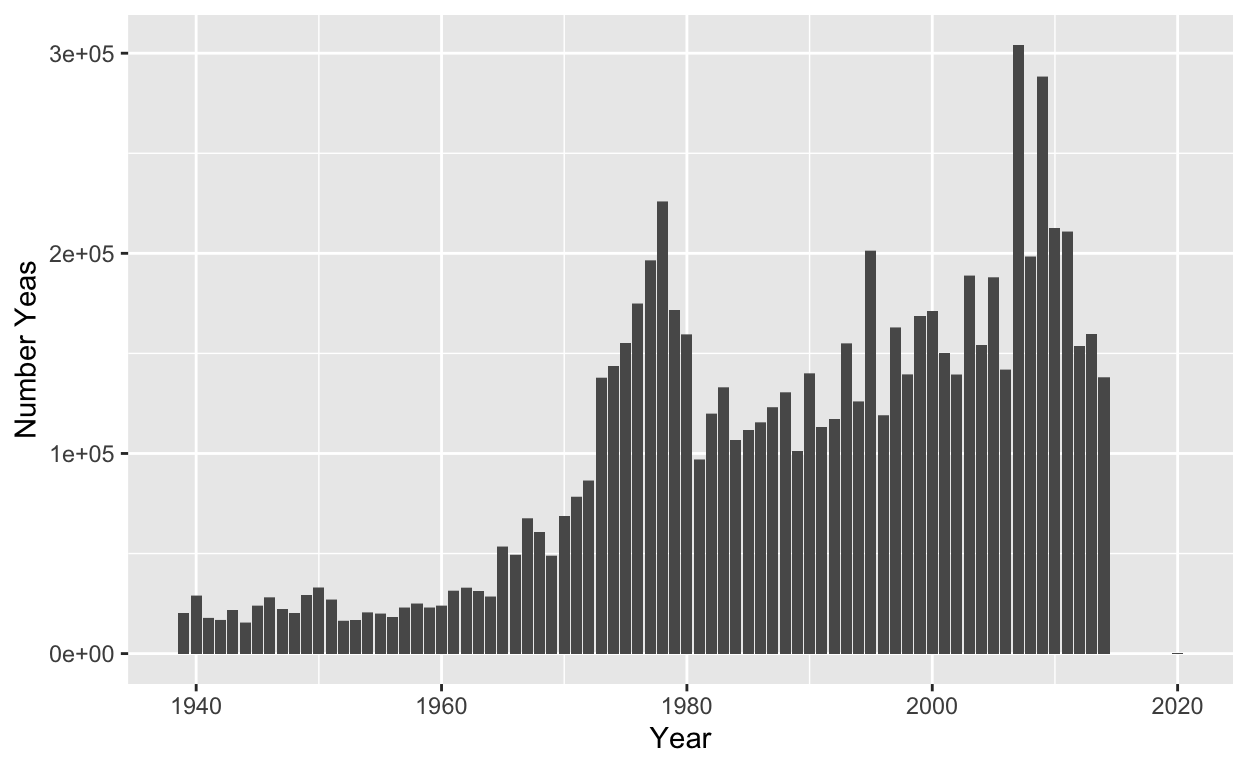
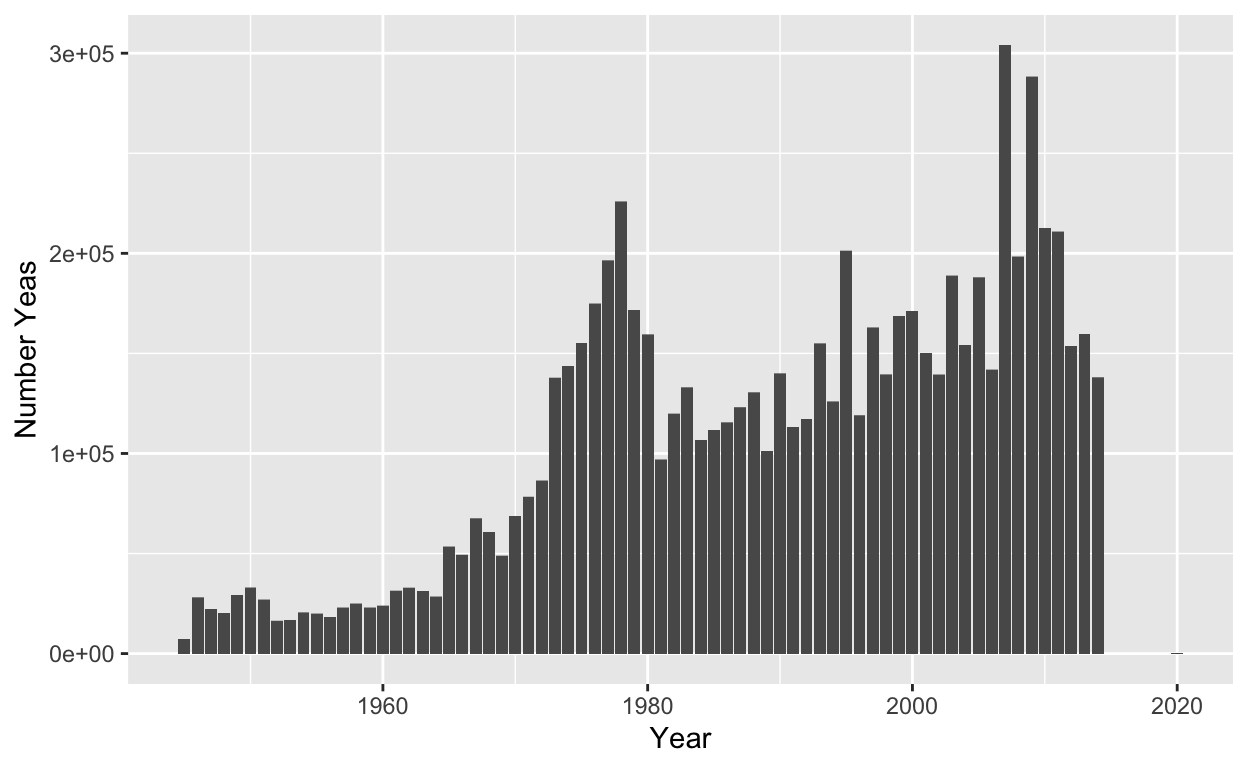
Milestone 4

diff --git a/index.html b/index.html
@@ -115,7 +115,7 @@ code span.wa { color: #5e5e5e; font-style: italic; } /* Warning */
   <!--/radix_placeholder_rmarkdown_metadata-->
   
   <script type="text/json" id="radix-resource-manifest">
-  {"type":"character","attributes":{},"value":["data/Party Voting Splits(main).csv","hdemrep35_113.xlsx","index_files/anchor-4.2.2/anchor.min.js","index_files/bowser-1.9.3/bowser.min.js","index_files/distill-2.2.21/template.v2.js","index_files/figure-html5/unnamed-chunk-3-1.png","index_files/figure-html5/unnamed-chunk-4-1.png","index_files/figure-html5/unnamed-chunk-5-1.png","index_files/header-attrs-2.17/header-attrs.js","index_files/header-attrs-2.24/header-attrs.js","index_files/jquery-3.6.0/jquery-3.6.0.js","index_files/jquery-3.6.0/jquery-3.6.0.min.js","index_files/jquery-3.6.0/jquery-3.6.0.min.map","index_files/popper-2.6.0/popper.min.js","index_files/tippy-6.2.7/tippy-bundle.umd.min.js","index_files/tippy-6.2.7/tippy-light-border.css","index_files/tippy-6.2.7/tippy.css","index_files/tippy-6.2.7/tippy.umd.min.js","index_files/webcomponents-2.0.0/webcomponents.js"]}
+  {"type":"character","attributes":{},"value":["data/Party Voting Splits(main).csv","hdemrep35_113.xlsx","index_files/anchor-4.2.2/anchor.min.js","index_files/bowser-1.9.3/bowser.min.js","index_files/distill-2.2.21/template.v2.js","index_files/figure-html5/unnamed-chunk-3-1.png","index_files/figure-html5/unnamed-chunk-4-1.png","index_files/figure-html5/unnamed-chunk-5-1.png","index_files/figure-html5/unnamed-chunk-6-1.png","index_files/header-attrs-2.17/header-attrs.js","index_files/header-attrs-2.24/header-attrs.js","index_files/jquery-3.6.0/jquery-3.6.0.js","index_files/jquery-3.6.0/jquery-3.6.0.min.js","index_files/jquery-3.6.0/jquery-3.6.0.min.map","index_files/popper-2.6.0/popper.min.js","index_files/tippy-6.2.7/tippy-bundle.umd.min.js","index_files/tippy-6.2.7/tippy-light-border.css","index_files/tippy-6.2.7/tippy.css","index_files/tippy-6.2.7/tippy.umd.min.js","index_files/webcomponents-2.0.0/webcomponents.js"]}
   </script>
   <!--radix_placeholder_navigation_in_header-->
   <!--/radix_placeholder_navigation_in_header-->
@@ -1520,6 +1520,7 @@ code span.wa { color: #5e5e5e; font-style: italic; } /* Warning */
 <h2 id="project-thoughts-milestone-1">Project Thoughts (Milestone 1)</h2>
 <h3 id="discription">Discription:</h3>
 <p>I am interested in exploring data related to congress voting patterns between Democrats and Republicans throughout the history of the United States to try and illustrate how we as a two-party nation have become more and more polarized as the years go on.</p>
+<hr />
 <h2 id="finding-data-and-proposal-milestone-2">Finding Data and Proposal (Milestone 2)</h2>
 <h3 id="data">Data:</h3>
 <div class="layout-chunk" data-layout="l-body">
@@ -1544,17 +1545,19 @@ code span.wa { color: #5e5e5e; font-style: italic; } /* Warning */
 <span>         number_republican_nays <span class='op'>=</span> <span class='va'>X3</span>,</span>
 <span>         number_democrat_yeas <span class='op'>=</span> <span class='va'>X124</span>,</span>
 <span>         number_democrat_nays <span class='op'>=</span> <span class='va'>X0</span><span class='op'>)</span> <span class='op'>|&gt;</span></span>
-<span>  <span class='fu'><a href='https://dplyr.tidyverse.org/reference/filter.html'>filter</a></span><span class='op'>(</span><span class='va'>congress_number</span> <span class='op'>&gt;=</span> <span class='fl'>76</span><span class='op'>)</span> <span class='op'>|&gt;</span></span>
+<span>  <span class='fu'><a href='https://dplyr.tidyverse.org/reference/mutate.html'>mutate</a></span><span class='op'>(</span>year_month<span class='op'>=</span><span class='va'>year</span><span class='op'>*</span><span class='fl'>100</span><span class='op'>+</span><span class='va'>month</span><span class='op'>)</span> <span class='op'>|&gt;</span></span>
+<span>  <span class='fu'><a href='https://dplyr.tidyverse.org/reference/filter.html'>filter</a></span><span class='op'>(</span><span class='va'>year_month</span> <span class='op'>&gt;=</span> <span class='fl'>194509</span><span class='op'>)</span><span class='op'>|&gt;</span></span>
 <span>  <span class='fu'><a href='https://dplyr.tidyverse.org/reference/select.html'>select</a></span><span class='op'>(</span><span class='va'>congress_number</span>, <span class='va'>roll_call_number</span>, <span class='va'>month</span>, <span class='va'>day</span>, <span class='va'>year</span>, <span class='va'>number_missing_votes</span>, <span class='va'>number_yeas</span>, <span class='va'>number_nays</span>, <span class='va'>number_republican_yeas</span>, <span class='va'>number_republican_nays</span>, <span class='va'>number_democrat_yeas</span>, <span class='va'>number_democrat_nays</span><span class='op'>)</span> </span></code></pre>
 </div>
 </div>
 <h3 id="discription-1">Discription:</h3>
 <p>My research question for my project is one I find very interesting and important. Is the United States of America more polarized than ever, or has it seen worse? Looking at the news and media nowadays, all we see is anger, lack of communication, misunderstanding, and hate. However, is this true, or is it just the media outlets making up stories to generate viewership? This project will attempt to prove or discredit these claims. I hypothesize that if the media is correct in its claims, then the United State’s center of Democracy, its Congress, should reflect this disunity. For this project, I plan to observe voting patterns between Democrats and Republicans in the House of Representatives. Starting after the end of the Second World War, from the 81st Congress of the United States and on to the modern day. I chose this starting point because the end of World War II was a turbulent time for politics in the US, and this is when we begin to see our modern forms of Republicans and Democrats. We will examine which party each representative falls under and then examine which side won the majority of a particular vote. By doing this, we will be able to see when Democrats vote with Republicans or when Republicans vote with Democrats. Then, I will see if this bipartisanship grows, stays the same, or declines over the years. This means that if this bipartisan voting stays the same or has grown, then my hypothesis and the media would have been wrong. However, if the data shows a decline, It will prove that my hypothesis is correct.</p>
+<hr />
 <h2 id="one-data-visualization-milestone-3">One data visualization (Milestone 3)</h2>
 <h3 id="data-visualization-number-yeas">Data visualization (Number Yeas):</h3>
 <div class="layout-chunk" data-layout="l-body">
 <div class="sourceCode">
-<pre class="sourceCode r"><code class="sourceCode r"><span><span class='va'>data2</span> <span class='op'>&lt;-</span> <span class='va'>data1</span> <span class='op'>|&gt;</span></span>
+<pre class="sourceCode r"><code class="sourceCode r"><span><span class='va'>yea_votes</span> <span class='op'>&lt;-</span> <span class='va'>data1</span> <span class='op'>|&gt;</span></span>
 <span>  <span class='fu'><a href='https://ggplot2.tidyverse.org/reference/ggplot.html'>ggplot</a></span><span class='op'>(</span>data <span class='op'>=</span> <span class='va'>data1</span>,</span>
 <span>       mapping <span class='op'>=</span> <span class='fu'><a href='https://ggplot2.tidyverse.org/reference/aes.html'>aes</a></span><span class='op'>(</span>x <span class='op'>=</span> <span class='va'>year</span>,</span>
 <span>                     y <span class='op'>=</span> <span class='va'>number_yeas</span><span class='op'>)</span><span class='op'>)</span> <span class='op'>+</span></span>
@@ -1563,14 +1566,14 @@ code span.wa { color: #5e5e5e; font-style: italic; } /* Warning */
 <span>    x <span class='op'>=</span> <span class='st'>"Year"</span>,</span>
 <span>    y <span class='op'>=</span> <span class='st'>"Number Yeas"</span><span class='op'>)</span></span>
 <span></span>
-<span><span class='va'>data2</span></span></code></pre>
+<span><span class='va'>yea_votes</span></span></code></pre>
 </div>
 <p><img src="index_files/figure-html5/unnamed-chunk-3-1.png" width="624" /></p>
 </div>
 <h3 id="data-visualization-number-nays">Data visualization (Number Nays):</h3>
 <div class="layout-chunk" data-layout="l-body">
 <div class="sourceCode">
-<pre class="sourceCode r"><code class="sourceCode r"><span><span class='va'>data3</span> <span class='op'>&lt;-</span> <span class='va'>data1</span> <span class='op'>|&gt;</span></span>
+<pre class="sourceCode r"><code class="sourceCode r"><span><span class='va'>nay_votes</span> <span class='op'>&lt;-</span> <span class='va'>data1</span> <span class='op'>|&gt;</span></span>
 <span>  <span class='fu'><a href='https://ggplot2.tidyverse.org/reference/ggplot.html'>ggplot</a></span><span class='op'>(</span>data <span class='op'>=</span> <span class='va'>data1</span>,</span>
 <span>       mapping <span class='op'>=</span> <span class='fu'><a href='https://ggplot2.tidyverse.org/reference/aes.html'>aes</a></span><span class='op'>(</span>x <span class='op'>=</span> <span class='va'>year</span>,</span>
 <span>                     y <span class='op'>=</span> <span class='va'>number_nays</span><span class='op'>)</span><span class='op'>)</span> <span class='op'>+</span></span>
@@ -1579,14 +1582,14 @@ code span.wa { color: #5e5e5e; font-style: italic; } /* Warning */
 <span>    x <span class='op'>=</span> <span class='st'>"Year"</span>,</span>
 <span>    y <span class='op'>=</span> <span class='st'>"Number Nays"</span><span class='op'>)</span> </span>
 <span></span>
-<span><span class='va'>data3</span></span></code></pre>
+<span><span class='va'>nay_votes</span></span></code></pre>
 </div>
 <p><img src="index_files/figure-html5/unnamed-chunk-4-1.png" width="624" /></p>
 </div>
 <h3 id="data-visualization-number-of-missing-votes">Data visualization (Number of Missing Votes):</h3>
 <div class="layout-chunk" data-layout="l-body">
 <div class="sourceCode">
-<pre class="sourceCode r"><code class="sourceCode r"><span><span class='va'>data4</span> <span class='op'>&lt;-</span> <span class='va'>data1</span> <span class='op'>|&gt;</span></span>
+<pre class="sourceCode r"><code class="sourceCode r"><span><span class='va'>missing_votes</span> <span class='op'>&lt;-</span> <span class='va'>data1</span> <span class='op'>|&gt;</span></span>
 <span>  <span class='fu'><a href='https://ggplot2.tidyverse.org/reference/ggplot.html'>ggplot</a></span><span class='op'>(</span>data <span class='op'>=</span> <span class='va'>data1</span>,</span>
 <span>       mapping <span class='op'>=</span> <span class='fu'><a href='https://ggplot2.tidyverse.org/reference/aes.html'>aes</a></span><span class='op'>(</span>x <span class='op'>=</span> <span class='va'>year</span>,</span>
 <span>                     y <span class='op'>=</span> <span class='va'>number_missing_votes</span><span class='op'>)</span><span class='op'>)</span> <span class='op'>+</span></span>
@@ -1595,11 +1598,170 @@ code span.wa { color: #5e5e5e; font-style: italic; } /* Warning */
 <span>    x <span class='op'>=</span> <span class='st'>"Year"</span>,</span>
 <span>    y <span class='op'>=</span> <span class='st'>"Number Missing Votes (not voting and not in Congress)"</span><span class='op'>)</span> </span>
 <span></span>
-<span><span class='va'>data4</span></span></code></pre>
+<span><span class='va'>missing_votes</span></span></code></pre>
 </div>
 <p><img src="index_files/figure-html5/unnamed-chunk-5-1.png" width="624" /></p>
 </div>
-<div class="sourceCode" id="cb1"><pre class="sourceCode r distill-force-highlighting-css"><code class="sourceCode r"></code></pre></div>
+<hr />
+<h2 id="results-from-one-analysis-milestone-4">Results from one analysis (Milestone 4)</h2>
+<h3 id="data-visualization">Data visualization:</h3>
+<div class="layout-chunk" data-layout="l-body">
+<div class="sourceCode">
+<pre class="sourceCode r"><code class="sourceCode r"><span><span class='va'>data_year</span> <span class='op'>&lt;-</span> <span class='va'>data1</span> <span class='op'>|&gt;</span></span>
+<span>  <span class='fu'><a href='https://dplyr.tidyverse.org/reference/group_by.html'>group_by</a></span><span class='op'>(</span><span class='va'>year</span><span class='op'>)</span> <span class='op'>|&gt;</span></span>
+<span>  <span class='fu'><a href='https://dplyr.tidyverse.org/reference/summarise.html'>summarize</a></span><span class='op'>(</span>number_missing_votes <span class='op'>=</span> <span class='fu'><a href='https://rdrr.io/r/base/sum.html'>sum</a></span><span class='op'>(</span><span class='va'>number_missing_votes</span><span class='op'>)</span>,</span>
+<span>            number_yeas <span class='op'>=</span> <span class='fu'><a href='https://rdrr.io/r/base/sum.html'>sum</a></span><span class='op'>(</span><span class='va'>number_yeas</span><span class='op'>)</span>,</span>
+<span>            number_nays <span class='op'>=</span> <span class='fu'><a href='https://rdrr.io/r/base/sum.html'>sum</a></span><span class='op'>(</span><span class='va'>number_nays</span><span class='op'>)</span>,</span>
+<span>            number_republican_yeas <span class='op'>=</span> <span class='fu'><a href='https://rdrr.io/r/base/sum.html'>sum</a></span><span class='op'>(</span><span class='va'>number_republican_yeas</span><span class='op'>)</span>,</span>
+<span>            number_republican_nays <span class='op'>=</span> <span class='fu'><a href='https://rdrr.io/r/base/sum.html'>sum</a></span><span class='op'>(</span><span class='va'>number_republican_nays</span><span class='op'>)</span>,</span>
+<span>            number_democrat_yeas <span class='op'>=</span> <span class='fu'><a href='https://rdrr.io/r/base/sum.html'>sum</a></span><span class='op'>(</span><span class='va'>number_democrat_yeas</span><span class='op'>)</span>,</span>
+<span>            number_democrat_nays <span class='op'>=</span> <span class='fu'><a href='https://rdrr.io/r/base/sum.html'>sum</a></span><span class='op'>(</span><span class='va'>number_democrat_nays</span><span class='op'>)</span><span class='op'>)</span></span>
+<span></span>
+<span><span class='va'>data_year</span> <span class='op'>&lt;-</span> <span class='va'>data_year</span> <span class='op'>|&gt;</span></span>
+<span>  <span class='fu'><a href='https://dplyr.tidyverse.org/reference/mutate.html'>mutate</a></span><span class='op'>(</span>total_votes <span class='op'>=</span> <span class='fu'><a href='https://rdrr.io/r/base/sum.html'>sum</a></span><span class='op'>(</span><span class='va'>number_missing_votes</span>,<span class='va'>number_yeas</span>,<span class='va'>number_nays</span><span class='op'>)</span><span class='op'>)</span> <span class='op'>|&gt;</span></span>
+<span>  <span class='fu'><a href='https://dplyr.tidyverse.org/reference/mutate.html'>mutate</a></span><span class='op'>(</span>prop_missing <span class='op'>=</span> <span class='va'>number_missing_votes</span><span class='op'>/</span><span class='va'>total_votes</span>,</span>
+<span>         prop_yeas <span class='op'>=</span> <span class='va'>number_yeas</span><span class='op'>/</span><span class='va'>total_votes</span>,</span>
+<span>         prop_nays <span class='op'>=</span> <span class='va'>number_nays</span><span class='op'>/</span><span class='va'>total_votes</span></span>
+<span>         <span class='op'>)</span></span>
+<span><span class='va'>data_year</span></span></code></pre>
+</div>
+<pre><code># A tibble: 71 × 12
+    year number_missing_votes number_yeas number_nays
+   &lt;int&gt;                &lt;int&gt;       &lt;int&gt;       &lt;int&gt;
+ 1  1945                 3125        7188        3451
+ 2  1946                14034       28029       15657
+ 3  1947                 4941       22229       10294
+ 4  1948                 5651       20350        9233
+ 5  1949                 8053       29093       15973
+ 6  1950                11448       33014       21388
+ 7  1951                 7210       26950       15992
+ 8  1952                 6206       16364        9398
+ 9  1953                 2941       16698       11317
+10  1954                 4462       20469        8205
+# ℹ 61 more rows
+# ℹ 8 more variables: number_republican_yeas &lt;int&gt;,
+#   number_republican_nays &lt;int&gt;, number_democrat_yeas &lt;int&gt;,
+#   number_democrat_nays &lt;int&gt;, total_votes &lt;int&gt;,
+#   prop_missing &lt;dbl&gt;, prop_yeas &lt;dbl&gt;, prop_nays &lt;dbl&gt;</code></pre>
+<div class="sourceCode">
+<pre class="sourceCode r"><code class="sourceCode r"><span><span class='va'>data_year_party_yeas</span> <span class='op'>&lt;-</span> <span class='va'>data_year</span> <span class='op'>|&gt;</span></span>
+<span>  <span class='fu'><a href='https://dplyr.tidyverse.org/reference/select.html'>select</a></span><span class='op'>(</span><span class='va'>year</span>,<span class='va'>number_democrat_yeas</span>,<span class='va'>number_republican_yeas</span><span class='op'>)</span> <span class='op'>|&gt;</span></span>
+<span>  <span class='fu'><a href='https://tidyr.tidyverse.org/reference/pivot_longer.html'>pivot_longer</a></span><span class='op'>(</span>names_to <span class='op'>=</span><span class='st'>"party"</span>,values_to <span class='op'>=</span> <span class='st'>"yeas"</span>,cols <span class='op'>=</span> <span class='fl'>2</span><span class='op'>:</span><span class='fl'>3</span>,names_pattern <span class='op'>=</span> <span class='st'>"number_?(.*)_yeas"</span><span class='op'>)</span></span>
+<span></span>
+<span><span class='va'>data_year_party_nays</span> <span class='op'>&lt;-</span> <span class='va'>data_year</span> <span class='op'>|&gt;</span></span>
+<span>  <span class='fu'><a href='https://dplyr.tidyverse.org/reference/select.html'>select</a></span><span class='op'>(</span><span class='va'>year</span>,<span class='va'>number_democrat_nays</span>,<span class='va'>number_republican_nays</span><span class='op'>)</span> <span class='op'>|&gt;</span></span>
+<span>  <span class='fu'><a href='https://tidyr.tidyverse.org/reference/pivot_longer.html'>pivot_longer</a></span><span class='op'>(</span>names_to <span class='op'>=</span><span class='st'>"party"</span>,values_to <span class='op'>=</span> <span class='st'>"nays"</span>,cols <span class='op'>=</span> <span class='fl'>2</span><span class='op'>:</span><span class='fl'>3</span>,names_pattern <span class='op'>=</span> <span class='st'>"number_?(.*)_nays"</span><span class='op'>)</span></span>
+<span></span>
+<span><span class='va'>data_year_party</span> <span class='op'>&lt;-</span> <span class='fu'><a href='https://dplyr.tidyverse.org/reference/mutate-joins.html'>left_join</a></span><span class='op'>(</span><span class='va'>data_year_party_nays</span>,<span class='va'>data_year_party_yeas</span>,by<span class='op'>=</span><span class='fu'><a href='https://rdrr.io/r/base/c.html'>c</a></span><span class='op'>(</span><span class='st'>"year"</span>,<span class='st'>"party"</span><span class='op'>)</span><span class='op'>)</span> <span class='op'>|&gt;</span></span>
+<span>  <span class='fu'><a href='https://dplyr.tidyverse.org/reference/mutate.html'>mutate</a></span><span class='op'>(</span>total<span class='op'>=</span><span class='va'>nays</span><span class='op'>+</span><span class='va'>yeas</span><span class='op'>)</span> <span class='op'>|&gt;</span></span>
+<span>  <span class='fu'><a href='https://dplyr.tidyverse.org/reference/mutate.html'>mutate</a></span><span class='op'>(</span>prop_nays<span class='op'>=</span><span class='va'>nays</span><span class='op'>/</span><span class='va'>total</span>,</span>
+<span>         prop_yeas<span class='op'>=</span><span class='va'>yeas</span><span class='op'>/</span><span class='va'>total</span><span class='op'>)</span></span>
+<span></span>
+<span><span class='va'>p1</span> <span class='op'>&lt;-</span> <span class='fu'><a href='https://ggplot2.tidyverse.org/reference/ggplot.html'>ggplot</a></span><span class='op'>(</span>data<span class='op'>=</span><span class='va'>data_year_party</span>,<span class='fu'><a href='https://ggplot2.tidyverse.org/reference/aes.html'>aes</a></span><span class='op'>(</span>x<span class='op'>=</span><span class='va'>year</span>,y<span class='op'>=</span><span class='va'>prop_yeas</span>,color<span class='op'>=</span><span class='va'>party</span><span class='op'>)</span><span class='op'>)</span><span class='op'>+</span></span>
+<span>  <span class='fu'><a href='https://ggplot2.tidyverse.org/reference/geom_point.html'>geom_point</a></span><span class='op'>(</span><span class='op'>)</span><span class='op'>+</span></span>
+<span>  <span class='fu'><a href='https://ggplot2.tidyverse.org/reference/geom_path.html'>geom_path</a></span><span class='op'>(</span><span class='op'>)</span><span class='op'>+</span></span>
+<span>  <span class='fu'><a href='https://ggplot2.tidyverse.org/reference/scale_manual.html'>scale_color_manual</a></span><span class='op'>(</span>values <span class='op'>=</span> <span class='fu'><a href='https://rdrr.io/r/base/c.html'>c</a></span><span class='op'>(</span><span class='st'>"blue"</span>,<span class='st'>"red"</span><span class='op'>)</span><span class='op'>)</span></span>
+<span></span>
+<span></span>
+<span><span class='va'>p2</span> <span class='op'>&lt;-</span> <span class='fu'><a href='https://ggplot2.tidyverse.org/reference/ggplot.html'>ggplot</a></span><span class='op'>(</span>data<span class='op'>=</span><span class='va'>data_year_party</span>,<span class='fu'><a href='https://ggplot2.tidyverse.org/reference/aes.html'>aes</a></span><span class='op'>(</span>x<span class='op'>=</span><span class='va'>year</span>,y<span class='op'>=</span><span class='va'>prop_nays</span>,color<span class='op'>=</span><span class='va'>party</span><span class='op'>)</span><span class='op'>)</span><span class='op'>+</span></span>
+<span>  <span class='fu'><a href='https://ggplot2.tidyverse.org/reference/geom_point.html'>geom_point</a></span><span class='op'>(</span><span class='op'>)</span><span class='op'>+</span></span>
+<span>  <span class='fu'><a href='https://ggplot2.tidyverse.org/reference/geom_path.html'>geom_path</a></span><span class='op'>(</span><span class='op'>)</span><span class='op'>+</span></span>
+<span>  <span class='fu'><a href='https://ggplot2.tidyverse.org/reference/scale_manual.html'>scale_color_manual</a></span><span class='op'>(</span>values <span class='op'>=</span> <span class='fu'><a href='https://rdrr.io/r/base/c.html'>c</a></span><span class='op'>(</span><span class='st'>"blue"</span>,<span class='st'>"red"</span><span class='op'>)</span><span class='op'>)</span></span>
+<span></span>
+<span><span class='co'>#install.packages("ggpubr")</span></span>
+<span><span class='kw'><a href='https://rdrr.io/r/base/library.html'>library</a></span><span class='op'>(</span><span class='va'><a href='https://rpkgs.datanovia.com/ggpubr/'>ggpubr</a></span><span class='op'>)</span></span>
+<span><span class='fu'><a href='https://rpkgs.datanovia.com/ggpubr/reference/ggarrange.html'>ggarrange</a></span><span class='op'>(</span><span class='va'>p1</span>,<span class='va'>p2</span>,ncol<span class='op'>=</span><span class='fl'>1</span><span class='op'>)</span></span></code></pre>
+</div>
+<p><img src="index_files/figure-html5/unnamed-chunk-6-1.png" width="624" /></p>
+</div>
+<h3 id="analysis-which-party-is-most-likley-to-vote-nay">Analysis (Which party is most likley to vote Nay?):</h3>
+<div class="layout-chunk" data-layout="l-body">
+<div class="sourceCode">
+<pre class="sourceCode r"><code class="sourceCode r"><span><span class='kw'><a href='https://rdrr.io/r/base/library.html'>library</a></span><span class='op'>(</span><span class='st'><a href='https://github.com/leifeld/texreg/'>'texreg'</a></span><span class='op'>)</span></span>
+<span></span>
+<span><span class='va'>data_republican</span> <span class='op'>&lt;-</span> <span class='va'>data_year_party</span> <span class='op'>|&gt;</span></span>
+<span>  <span class='fu'><a href='https://rdrr.io/r/base/subset.html'>subset</a></span><span class='op'>(</span><span class='va'>party</span> <span class='op'>==</span><span class='st'>"republican"</span><span class='op'>)</span></span>
+<span></span>
+<span><span class='va'>fit1</span> <span class='op'>&lt;-</span> <span class='fu'><a href='https://rdrr.io/r/stats/lm.html'>lm</a></span><span class='op'>(</span><span class='va'>prop_nays</span> <span class='op'>~</span> <span class='va'>year</span>, data <span class='op'>=</span> <span class='va'>data_republican</span><span class='op'>)</span> </span>
+<span><span class='fu'><a href='https://rdrr.io/r/base/summary.html'>summary</a></span><span class='op'>(</span><span class='va'>fit1</span><span class='op'>)</span></span></code></pre>
+</div>
+<pre><code>
+Call:
+lm(formula = prop_nays ~ year, data = data_republican)
+
+Residuals:
+     Min       1Q   Median       3Q      Max 
+-0.35474 -0.05146  0.00611  0.04967  0.17059 
+
+Coefficients:
+             Estimate Std. Error t value Pr(&gt;|t|)
+(Intercept) 0.0245775  0.8827028   0.028    0.978
+year        0.0001634  0.0004458   0.367    0.715
+
+Residual standard error: 0.07746 on 69 degrees of freedom
+Multiple R-squared:  0.001945,  Adjusted R-squared:  -0.01252 
+F-statistic: 0.1344 on 1 and 69 DF,  p-value: 0.715</code></pre>
+<div class="sourceCode">
+<pre class="sourceCode r"><code class="sourceCode r"><span><span class='fu'><a href='https://rdrr.io/pkg/texreg/man/screenreg.html'>screenreg</a></span><span class='op'>(</span><span class='va'>fit1</span><span class='op'>)</span></span></code></pre>
+</div>
+<pre><code>
+====================
+             Model 1
+--------------------
+(Intercept)   0.02  
+             (0.88) 
+year          0.00  
+             (0.00) 
+--------------------
+R^2           0.00  
+Adj. R^2     -0.01  
+Num. obs.    71     
+====================
+*** p &lt; 0.001; ** p &lt; 0.01; * p &lt; 0.05</code></pre>
+</div>
+<div class="layout-chunk" data-layout="l-body">
+<div class="sourceCode">
+<pre class="sourceCode r"><code class="sourceCode r"><span><span class='va'>data_democrat</span> <span class='op'>&lt;-</span> <span class='va'>data_year_party</span> <span class='op'>|&gt;</span></span>
+<span>  <span class='fu'><a href='https://rdrr.io/r/base/subset.html'>subset</a></span><span class='op'>(</span><span class='va'>party</span> <span class='op'>==</span><span class='st'>"democrat"</span><span class='op'>)</span></span>
+<span></span>
+<span><span class='va'>fit2</span> <span class='op'>&lt;-</span> <span class='fu'><a href='https://rdrr.io/r/stats/lm.html'>lm</a></span><span class='op'>(</span><span class='va'>prop_nays</span> <span class='op'>~</span> <span class='va'>year</span>, data <span class='op'>=</span> <span class='va'>data_democrat</span><span class='op'>)</span> </span>
+<span><span class='fu'><a href='https://rdrr.io/r/base/summary.html'>summary</a></span><span class='op'>(</span><span class='va'>fit2</span><span class='op'>)</span></span></code></pre>
+</div>
+<pre><code>
+Call:
+lm(formula = prop_nays ~ year, data = data_democrat)
+
+Residuals:
+      Min        1Q    Median        3Q       Max 
+-0.314467 -0.041471 -0.007832  0.028425  0.170924 
+
+Coefficients:
+              Estimate Std. Error t value Pr(&gt;|t|)
+(Intercept)  1.0524567  0.9211378   1.143    0.257
+year        -0.0003653  0.0004652  -0.785    0.435
+
+Residual standard error: 0.08083 on 69 degrees of freedom
+Multiple R-squared:  0.00886,   Adjusted R-squared:  -0.005504 
+F-statistic: 0.6168 on 1 and 69 DF,  p-value: 0.4349</code></pre>
+<div class="sourceCode">
+<pre class="sourceCode r"><code class="sourceCode r"><span><span class='fu'><a href='https://rdrr.io/pkg/texreg/man/screenreg.html'>screenreg</a></span><span class='op'>(</span><span class='va'>fit2</span><span class='op'>)</span></span></code></pre>
+</div>
+<pre><code>
+====================
+             Model 1
+--------------------
+(Intercept)   1.05  
+             (0.92) 
+year         -0.00  
+             (0.00) 
+--------------------
+R^2           0.01  
+Adj. R^2     -0.01  
+Num. obs.    71     
+====================
+*** p &lt; 0.001; ** p &lt; 0.01; * p &lt; 0.05</code></pre>
+</div>
+<div class="sourceCode" id="cb6"><pre class="sourceCode r distill-force-highlighting-css"><code class="sourceCode r"></code></pre></div>
 <!--radix_placeholder_article_footer-->
 <!--/radix_placeholder_article_footer-->
 </div>
